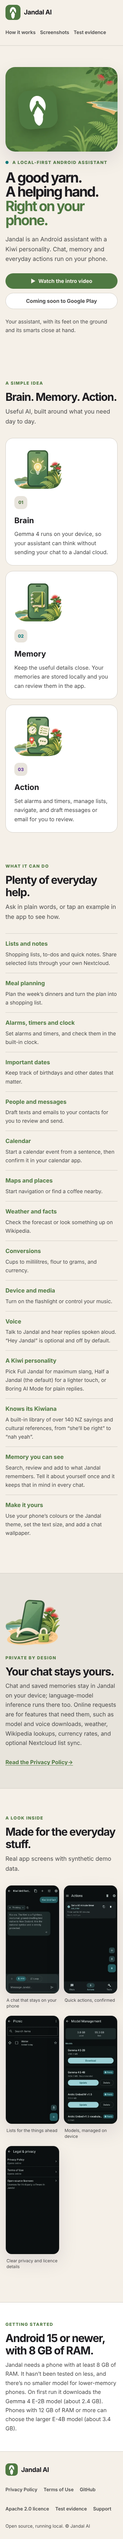
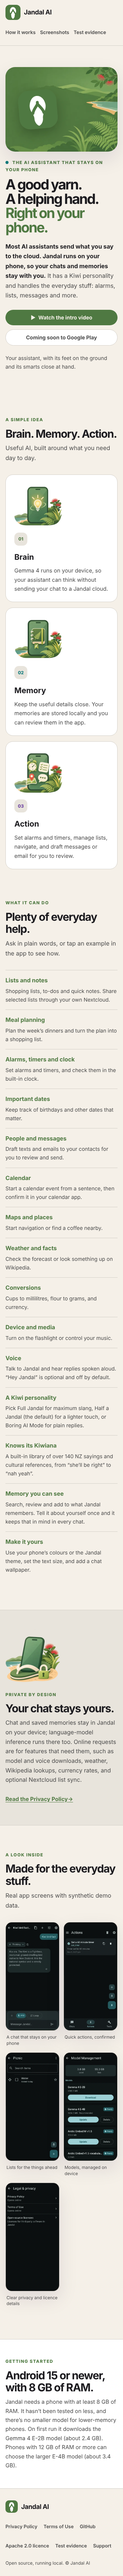
feat(#1754): lead the landing page with a plain-English privacy hook
Replace the 'local-first' jargon in the eyebrow, title and meta description,
and open the hero copy with what Jandal does differently: it runs on the
phone, so chats and memories stay there.

Claude-Session: https://claude.ai/code/session_013fr62a1d9NmcGmzFgBDBMK

diff --git a/site/index.html b/site/index.html
@@ -4,9 +4,9 @@
   <meta charset="utf-8">
   <meta name="viewport" content="width=device-width, initial-scale=1">
   <meta name="color-scheme" content="light dark">
-  <meta name="description" content="Jandal AI is a local-first Android assistant. Chat, memory and actions run on your phone.">
+  <meta name="description" content="Jandal AI is an AI assistant that runs on your Android phone, so your chats and memories stay with you.">
   <meta name="theme-color" content="#f5f0e8">
-  <title>Jandal AI — A local-first Android assistant</title>
+  <title>Jandal AI — The AI assistant that stays on your phone</title>
   <link rel="icon" type="image/svg+xml" href="assets/jandal-icon.svg">
   <link rel="stylesheet" href="styles.css">
 </head>
@@ -29,9 +29,9 @@
   <main id="main">
     <section class="hero wrap" aria-labelledby="hero-title">
       <div class="hero-copy">
-        <p class="eyebrow"><span class="status-dot" aria-hidden="true"></span> A local-first Android assistant</p>
+        <p class="eyebrow"><span class="status-dot" aria-hidden="true"></span> The AI assistant that stays on your phone</p>
         <h1 id="hero-title">A good yarn.<br>A helping hand.<br><span>Right on your phone.</span></h1>
-        <p class="hero-description">Jandal is an Android assistant with a Kiwi personality. Chat, memory and everyday actions run on your phone.</p>
+        <p class="hero-description"><strong>Most AI assistants send what you say to the cloud. Jandal runs on your phone, so your chats and memories stay with you.</strong> It has a Kiwi personality and handles the everyday stuff: alarms, lists, messages and more.</p>
         <div class="hero-actions">
           <a class="video-link" href="https://www.youtube.com/shorts/DdskEMfqqsc"><span aria-hidden="true">▶</span> Watch the intro video</a>
           <span class="play-status">Coming soon to Google Play</span>

diff --git a/site/styles.css b/site/styles.css
@@ -58,6 +58,7 @@ h1, h2, h3, p { margin-top: 0; }
 h1 { max-width: 660px; margin-bottom: 20px; font-size: clamp(2.7rem, 6.4vw, 5.15rem); line-height: 1.02; letter-spacing: -.065em; }
 h1 span { color: var(--green); }
 .hero-description { max-width: 570px; margin-bottom: 27px; color: var(--muted); font-size: clamp(1.08rem, 2vw, 1.28rem); }
+.hero-description strong { color: var(--ink); font-weight: 650; }
 .hero-actions { display: flex; flex-wrap: wrap; align-items: center; gap: 12px; }
 .video-link { display: inline-flex; min-height: 44px; align-items: center; gap: 8px; padding: 10px 18px; border-radius: 999px; background: var(--green); color: var(--page); font-size: .95rem; font-weight: 750; text-decoration: none; }
 .video-link:hover { filter: brightness(1.08); }
